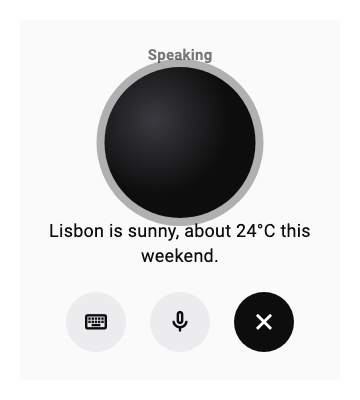
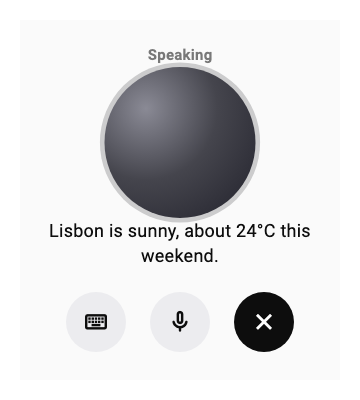
Refine the Live orb: graphite sphere instead of flat black
The orb read as a black void. Replaced the near-black radial fill with a graded
graphite gradient (light top-left highlight -> mid -> dark edge) and a softer
shadow, for a dimensional sphere. Still minimal/monochrome.

Changed region(s): [[0.2444, 0.15, 0.7333, 0.57]]

diff --git a/packages/flutter_ai_elements/lib/src/widgets/ai_live_session.dart b/packages/flutter_ai_elements/lib/src/widgets/ai_live_session.dart
@@ -113,7 +113,6 @@ class _AiLiveSessionState extends State<AiLiveSession>
                   builder: (context, _) => _Orb(
                     breathe: 0.5 - 0.5 * math.cos(2 * math.pi * _breathe.value),
                     amplitude: widget.muted ? 0 : widget.amplitude.clamp(0, 1),
-                    accent: theme.accentColor,
                     active: widget.status == AiLiveStatus.speaking ||
                         widget.status == AiLiveStatus.listening,
                   ),
@@ -173,13 +172,11 @@ class _Orb extends StatelessWidget {
   const _Orb({
     required this.breathe,
     required this.amplitude,
-    required this.accent,
     required this.active,
   });
 
   final double breathe;
   final double amplitude;
-  final Color accent;
   final bool active;
 
   @override
@@ -187,22 +184,29 @@ class _Orb extends StatelessWidget {
     const base = 150.0;
     final react = active ? amplitude : amplitude * 0.3;
     final scale = 1 + 0.05 * breathe + 0.22 * react;
-    final glow = 0.12 + 0.32 * react;
 
     return Container(
       width: base * scale,
       height: base * scale,
       decoration: BoxDecoration(
         shape: BoxShape.circle,
+        // A graded graphite sphere with a soft top-left highlight — dimensional
+        // rather than a flat black disc.
         gradient: const RadialGradient(
-          center: Alignment(-0.3, -0.3),
-          colors: [Color(0xFF3A3A40), Color(0xFF0D0D0D)],
+          center: Alignment(-0.4, -0.45),
+          radius: 1.05,
+          colors: [
+            Color(0xFF8A8A95),
+            Color(0xFF45454D),
+            Color(0xFF20202A),
+          ],
+          stops: [0.0, 0.45, 1.0],
         ),
         boxShadow: [
           BoxShadow(
-            color: accent.withValues(alpha: glow),
-            blurRadius: 28 + 48 * react,
-            spreadRadius: 2 + 10 * react,
+            color: const Color(0xFF1B1B20).withValues(alpha: 0.10 + 0.18 * react),
+            blurRadius: 30 + 44 * react,
+            spreadRadius: 1 + 6 * react,
           ),
         ],
       ),